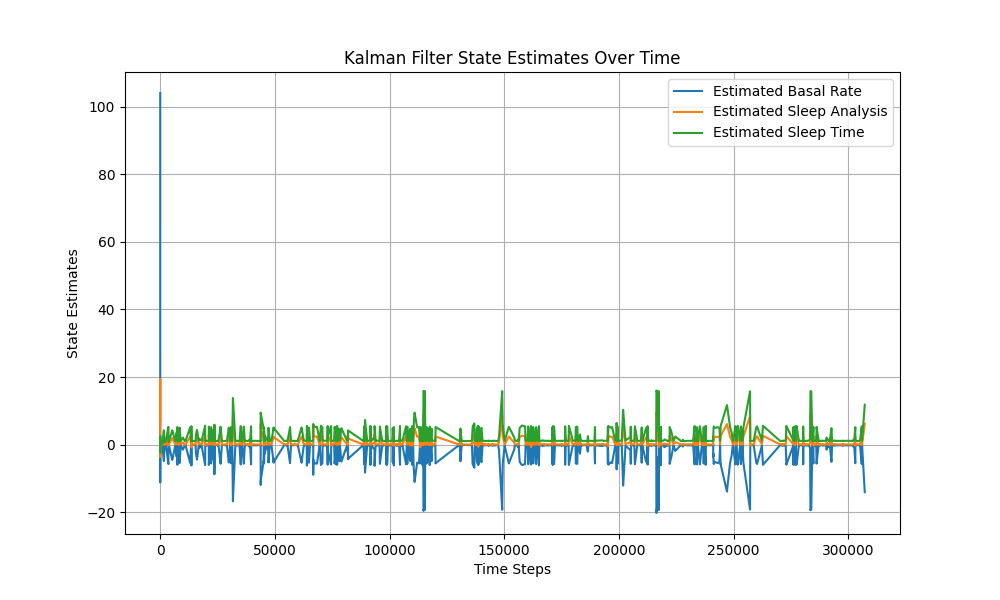
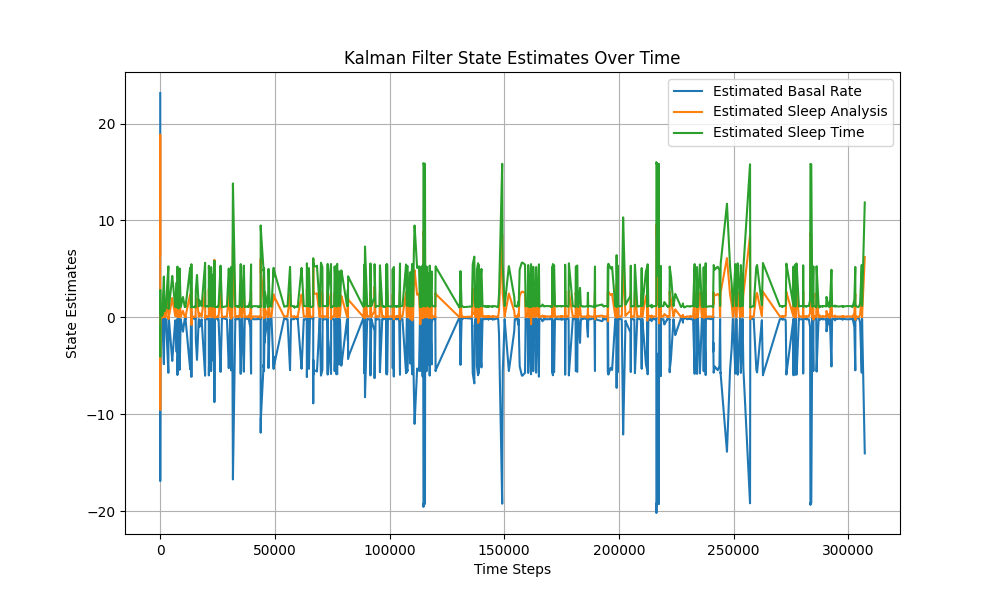
cleaning up data analysis

diff --git a/using_pure_sleep/data_processing.py b/using_pure_sleep/data_processing.py
@@ -1,0 +1,60 @@
+# Imports
+import numpy as np 
+import csv 
+import matplotlib.pyplot as plt 
+col_to_extract = "value"
+import pandas as pd 
+from filterpy.kalman import predict
+from filterpy.common import Q_discrete_white_noise
+from filterpy.kalman import KalmanFilter
+from sklearn.preprocessing import LabelEncoder
+
+#both of inputs need to be strings. column of interest is time for pure sleep time and start for the basal metabolic rate and the hk sleep time
+def process_numerical_data(csv_string, column_of_interest): 
+    # data processing for sleep time
+    dataframe = pd.read_csv(csv_string)
+    #df_st = pd.read_csv("F:\FALL 2024\Senior-Project-Modeling-Noah\data\PureSleepTime.csv")
+
+    # convert to datetime 
+    dataframe['start'] = pd.to_datetime(dataframe[column_of_interest])
+
+    #the datetime values will be used 
+    dataframe.set_index('start', inplace=True)
+
+    if dataframe.index.duplicated().any():
+        dataframe = dataframe[~dataframe.index.duplicated(keep='first')]
+
+    start_time = pd.Timestamp('2023-07-07 01:08:27-0400')
+    end_time = pd.Timestamp('2024-09-05 08:27:27-0400')
+    #normalize them to a constant frequency 
+    common_time = pd.date_range(start=start_time, 
+                                end=end_time, 
+                                freq='min')
+
+    #align values with the times 
+    interpolated_data = df_st['value'].reindex(common_time).interpolate()
+
+    #create a dataframe with start and value columns 
+    aligned_dataframe = pd.DataFrame({
+        'value': interpolated_data
+        })
+
+    processed_data = aligned_dataframe.to_numpy().flatten()
+    all_nan_data = np.isnan(processed_data)
+    non_nan_processed_data = processed_data[~all_nan_data]
+
+    return non_nan_processed_data
+
+#column of interest is "onehot_encoded_value", mapped column is "value". feed the generated csv into the
+#process_numerical_data method after running this method. 
+def process_categorical_data(csv_string, column_of_interest, mapped_column, category_mapping): 
+
+    # data processing for sleep analysis 
+    df_sa_original = pd.read_csv(csv_string)
+
+    # First we are adding the column with the one hot encoded value to 'quantify' the sleep analysis data
+
+    
+    # Map categories to numeric valuesby one hot encoding
+    df_sa_original[column_of_interest] = df_sa_original[mapped_column].map(category_mapping)
+    df_sa_original.to_csv('data/HKCategoryTypeIdentifierSleepAnalysis_processed.csv', index=False)  # save to new csv file

diff --git a/using_pure_sleep/p_and_f_derivation.py b/using_pure_sleep/p_and_f_derivation.py
@@ -1,0 +1,21 @@
+
+import numpy as np 
+import csv 
+import matplotlib.pyplot as plt 
+col_to_extract = "value"
+import pandas as pd 
+from filterpy.kalman import predict
+from filterpy.common import Q_discrete_white_noise
+from filterpy.kalman import KalmanFilter
+from sklearn.preprocessing import LabelEncoder
+from data_processing import process_categorical_data, process_numerical_data
+# Ensuring consistent length of the arrays
+min_length = min(len(basal_rate_sans_nan), len(sleep_analysis_sans_nan), len(sleep_time_sans_nan))
+basal_rate_sans_nan = basal_rate_sans_nan[:min_length]
+sleep_analysis_sans_nan = sleep_analysis_sans_nan[:min_length]
+sleep_time_sans_nan = sleep_time_sans_nan[:min_length]
+
+# Convert to 1D arrays
+basal_rate_sans_nan = np.array(basal_rate_sans_nan).flatten()
+sleep_analysis_sans_nan = np.array(sleep_analysis_sans_nan).flatten()
+sleep_time_sans_nan = np.array(sleep_time_sans_nan).flatten()

diff --git a/using_pure_sleep/kalman_filter.py b/using_pure_sleep/kalman_filter.py
@@ -224,9 +224,9 @@ zs = np.column_stack((basal_rate_sans_nan, sleep_analysis_sans_nan, sleep_time_s
 #this P is taken from the P_threebythree array 
 final_P = np.array([
     [0.16, 0,            0,            0         ],
-    [1.10624371e+02, 1.61602628e-02, 4.40134994e-02], 
- [1.61602628e-02, 1.10291078e-02, 1.27332509e-02], 
- [4.40134994e-02, 1.27332509e-02, 2.86459969e-02], 
+    [0, 1.10624371e+02, 1.61602628e-02, 4.40134994e-02], 
+ [0, 1.61602628e-02, 1.10291078e-02, 1.27332509e-02], 
+ [0, 4.40134994e-02, 1.27332509e-02, 2.86459969e-02], 
 ])
 
 # Initial state X. based on the average of the arrays sans all the nans 
